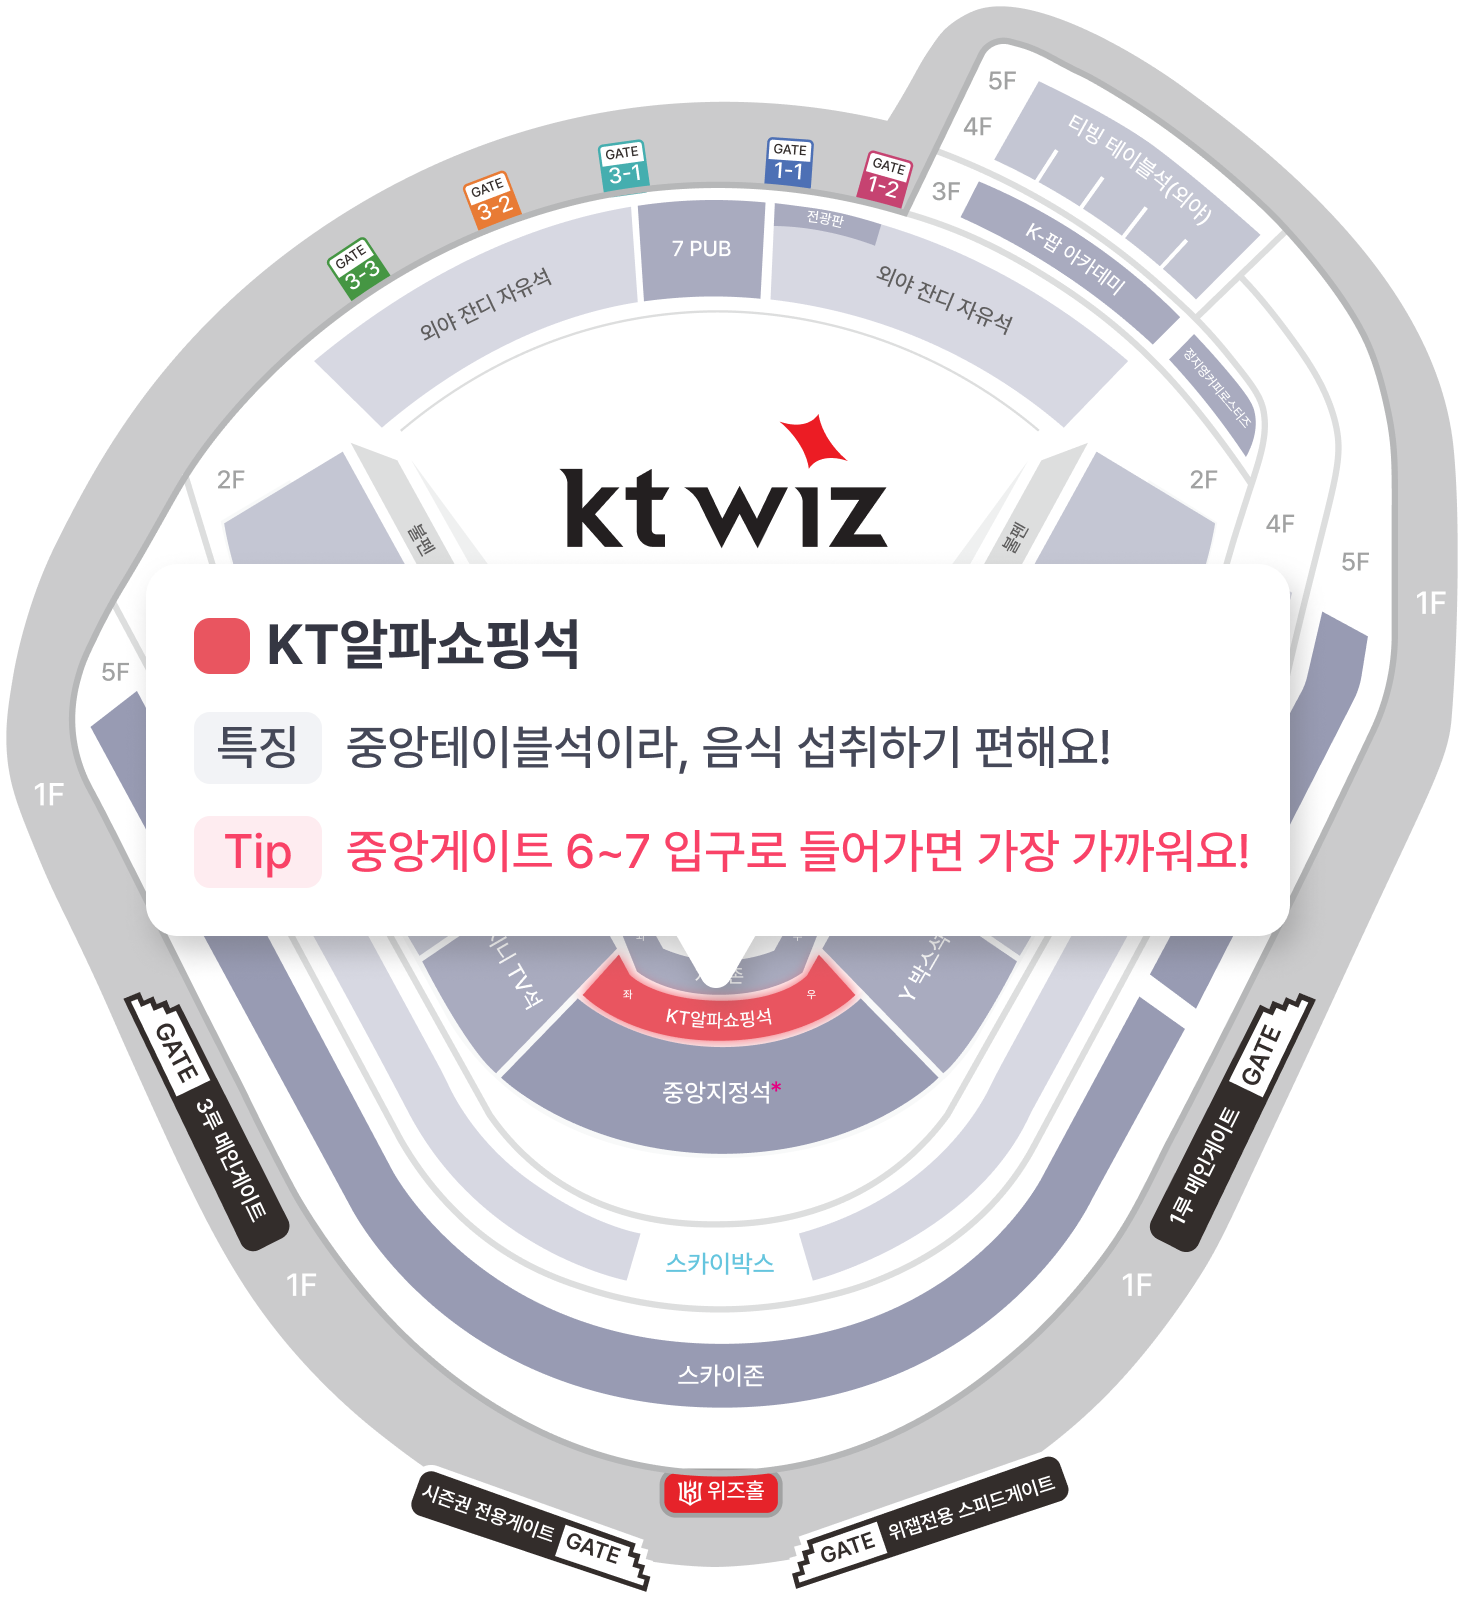
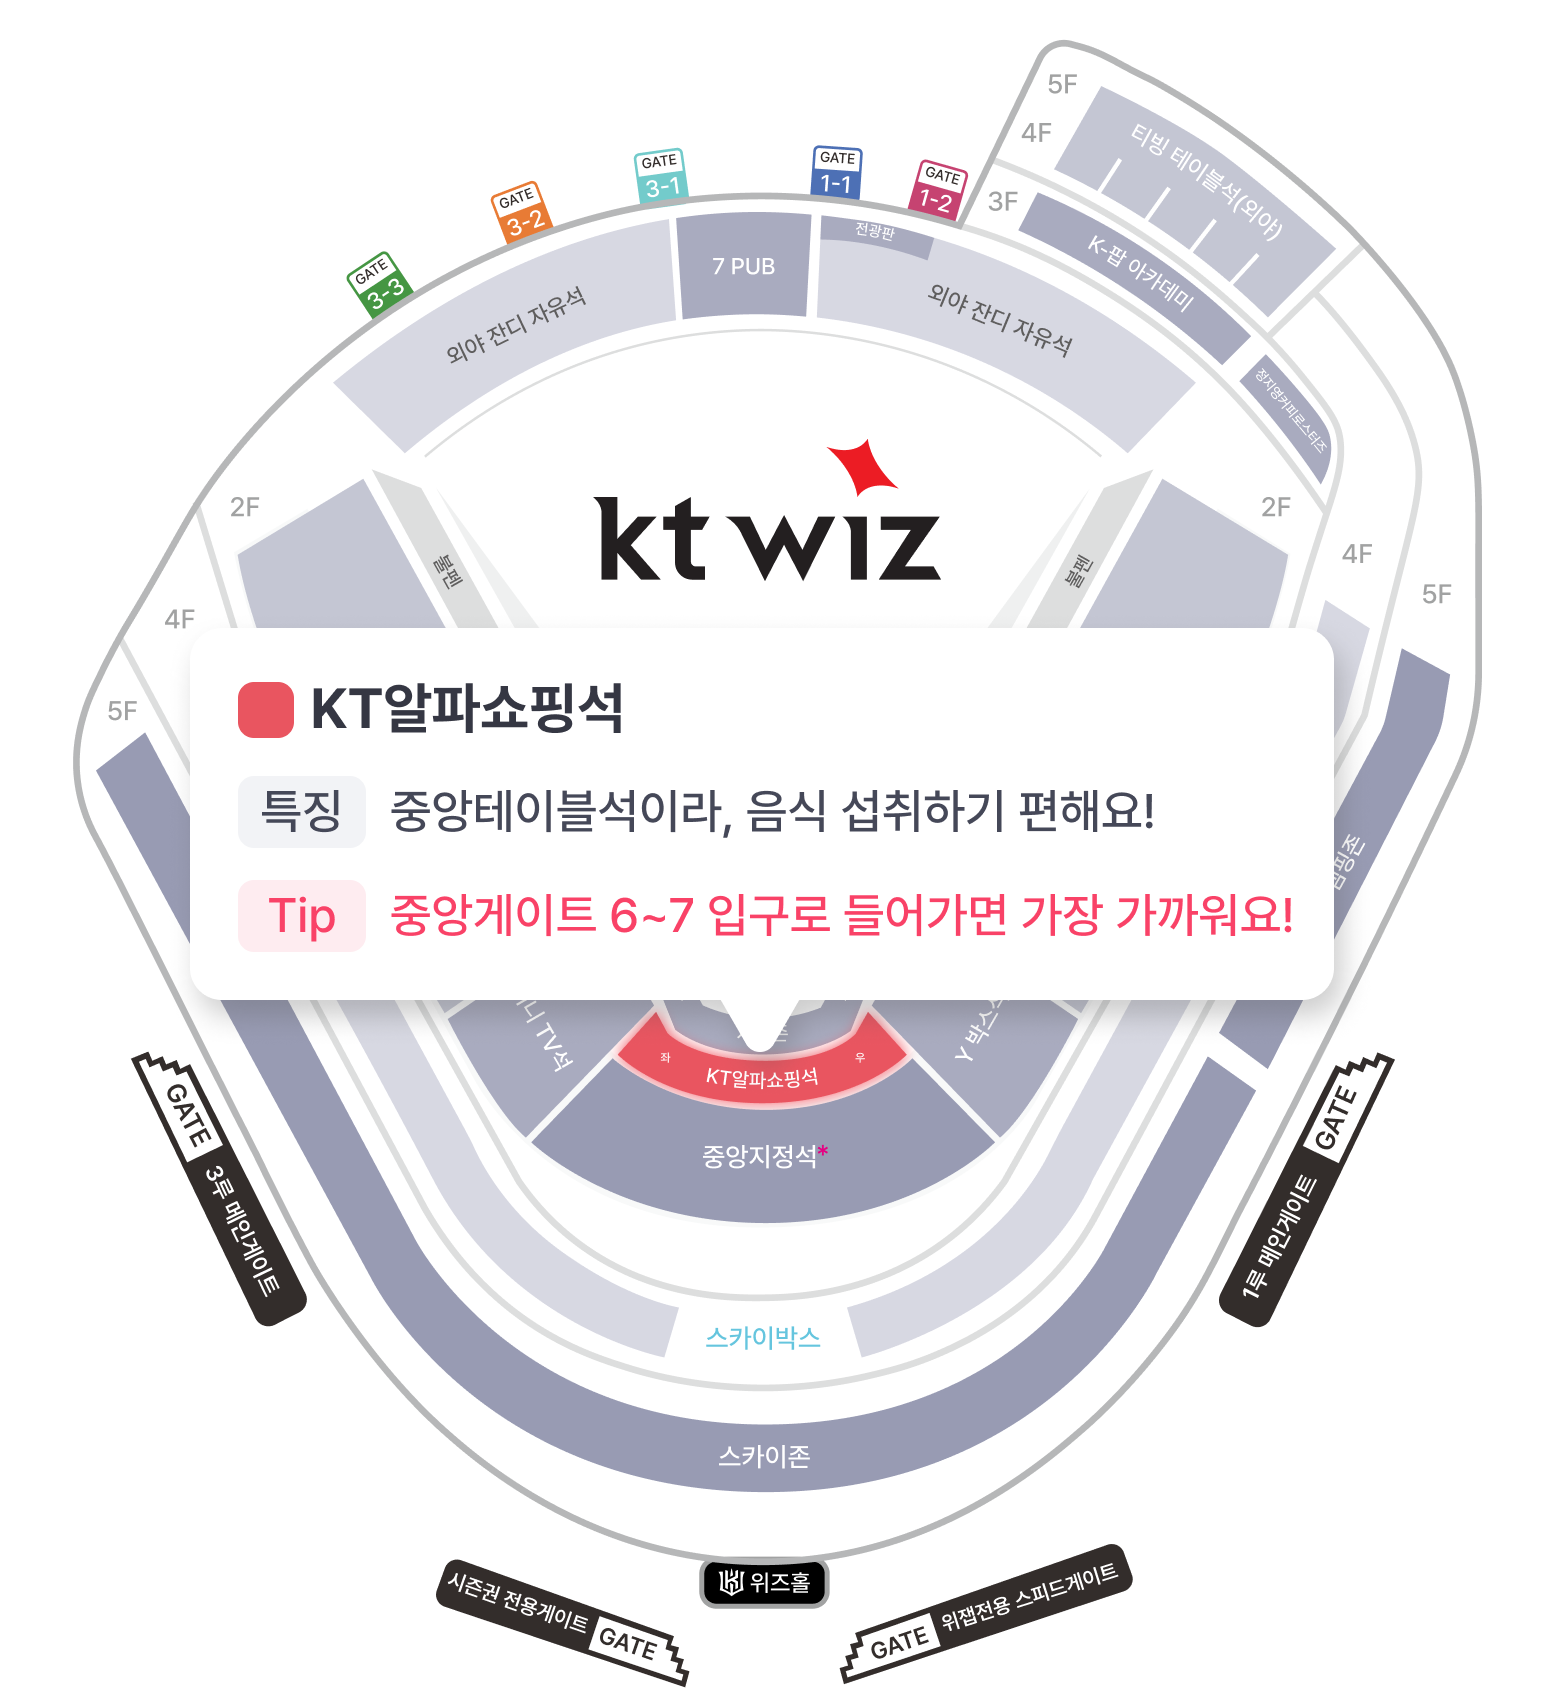
(#48) 🎨 design: 수원KT위즈파크 이미지 수정 및 마진 변경

diff --git a/src/pages/Main/components/KtwizSeat.tsx b/src/pages/Main/components/KtwizSeat.tsx
@@ -155,7 +155,7 @@ const KtwizSeat = ({ screenWidth }: Props) => {
   };
   //
   return (
-    <div className="flex justify-center mt-6">
+    <div className="flex justify-center">
       <canvas
         ref={canvasRef}
         className={`w-full max-w-[${getImageDimensions(StadiumType.SUWON_KT, screenWidth).width}px] mx-auto`}
